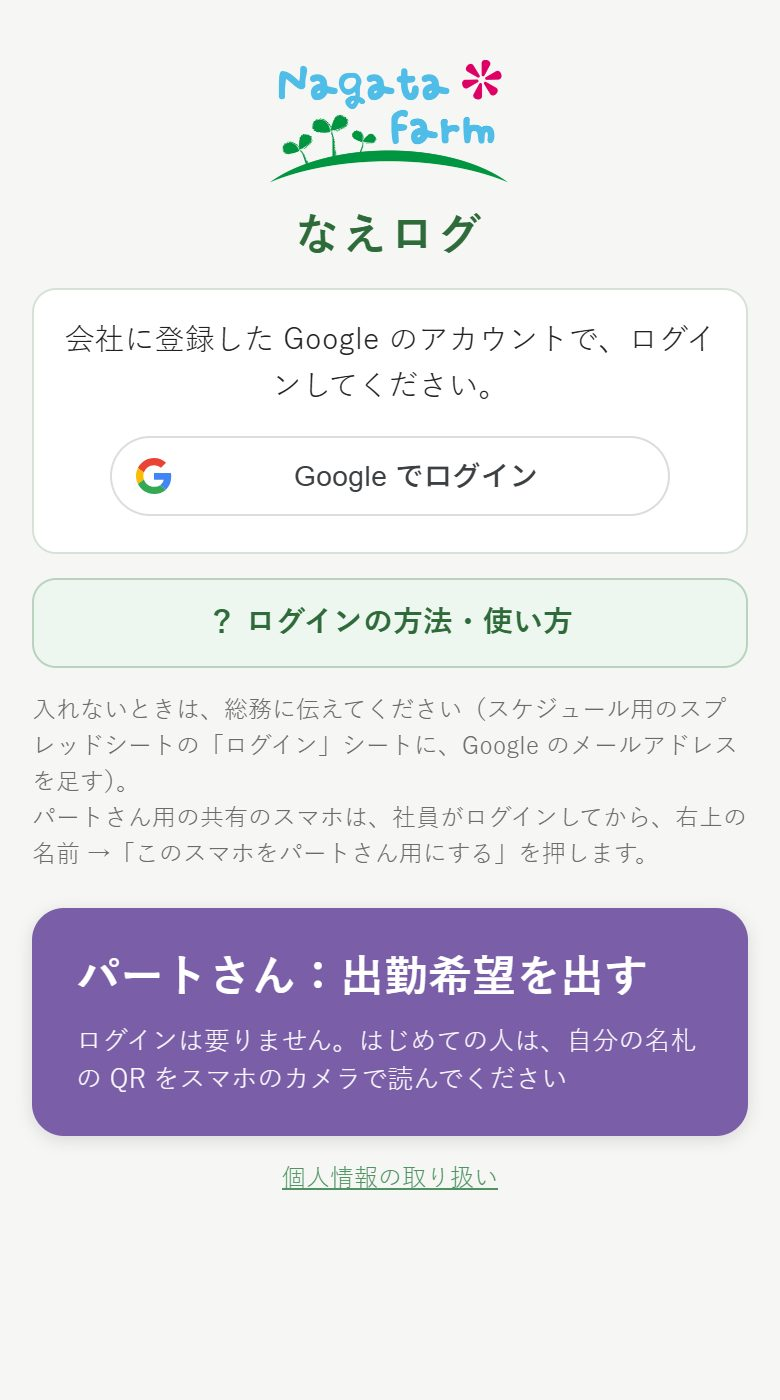
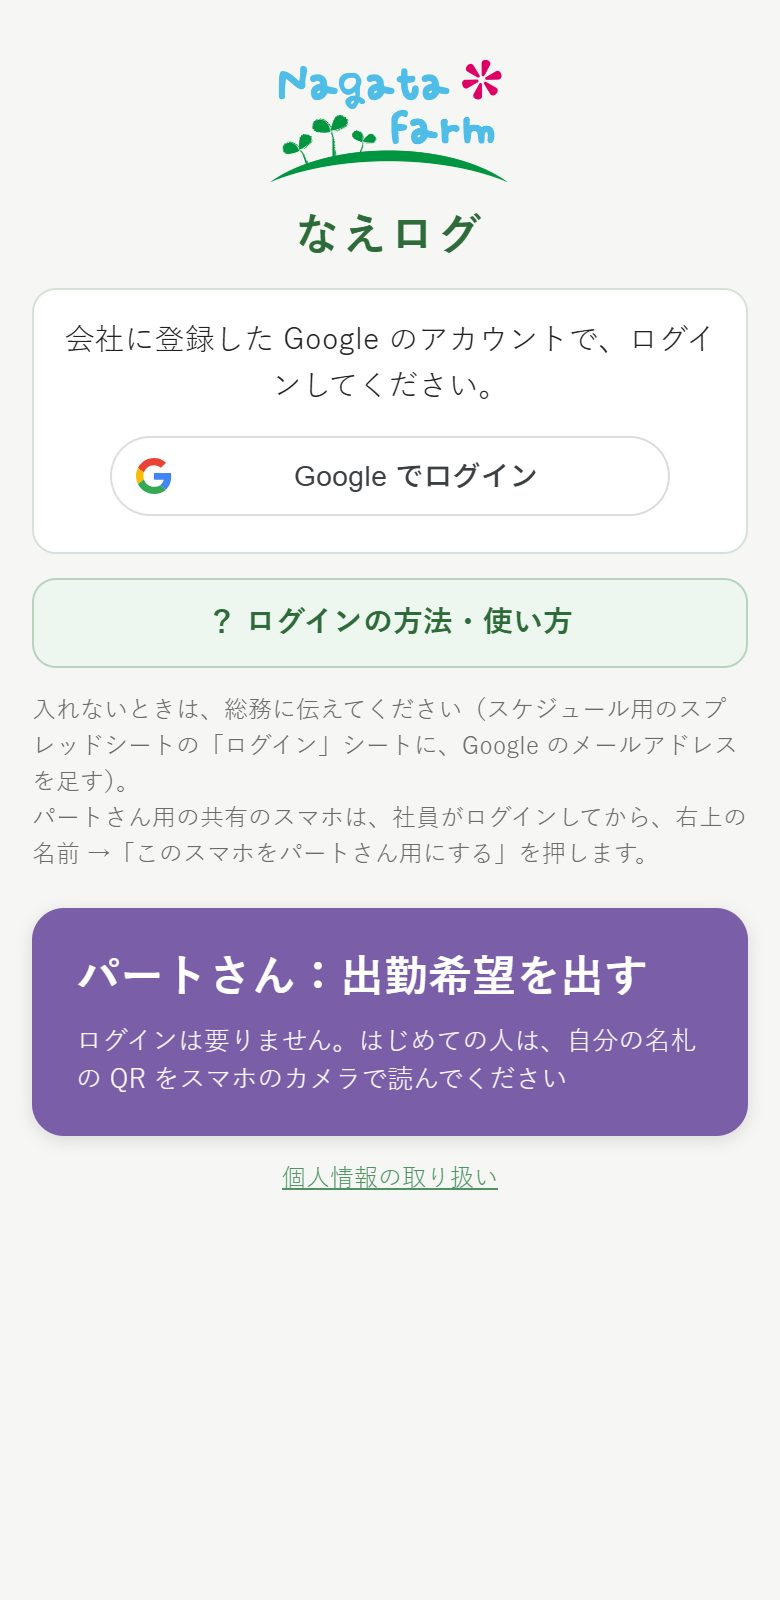
使い方：スマホの枠を今のスマホの形に（縦長・丸い角・上の小判形・横のボタン）。画面の画像も縦長で撮り直し

diff --git a/help.html b/help.html
@@ -16,7 +16,15 @@
   section { background: #fff; border: 1px solid var(--line); border-radius: 16px; padding: 16px; margin: 14px 0; box-shadow: 0 2px 8px rgba(0,0,0,.05); scroll-margin-top: 8px; }
   h2 { font-size: 18px; margin: 0 0 12px; padding-left: 10px; border-left: 5px solid var(--green); }
   .row { display: flex; gap: 18px; align-items: flex-start; }
-  .phone { flex: none; width: 220px; position: relative; border: 6px solid #2b2b2b; border-radius: 26px; overflow: hidden; background: #000; box-shadow: 0 4px 14px rgba(0,0,0,.2); }
+  /* スマホの形：縦長・細い黒ふち・大きな丸い角・上の小判形・横のボタン */
+  .phone { flex: none; width: 230px; position: relative; padding: 7px; border-radius: 40px; background: #121212; box-shadow: 0 0 0 2px #4d3f57, 0 0 0 3px #1c1620, 0 12px 26px rgba(0,0,0,.22); }
+  .phone::before { content: ""; position: absolute; left: -6px; top: 17%; width: 3px; height: 5%; border-radius: 2px 0 0 2px; background: #4d3f57; box-shadow: 0 46px 0 #4d3f57, 0 46px 0 0 #4d3f57, 0 92px 0 #4d3f57; }
+  .phone::after { content: ""; position: absolute; right: -6px; top: 27%; width: 3px; height: 12%; border-radius: 0 2px 2px 0; background: #4d3f57; }
+  .scr { position: relative; border-radius: 33px; overflow: hidden; padding-top: 30px; background: #fff; }
+  .scr.g { background: #4f9363; }
+  .scr.l { background: #f5f5f3; }
+  .scr::before { content: ""; position: absolute; z-index: 3; left: 50%; top: 9px; width: 28%; height: 15px; margin-left: -14%; border-radius: 999px; background: #000; }
+  .shot { position: relative; }
   .phone img { display: block; width: 100%; height: auto; }
   /* 押す所の番号：下の画面が透けて見えるように、うすい色の輪にする（字は小さく、輪の右上に寄せる） */
   .phone .m { position: absolute; width: 34px; height: 34px; margin: -17px 0 0 -17px; border-radius: 50%; background: rgba(212,130,74,.22); border: 2px solid rgba(212,130,74,.85); box-shadow: 0 0 0 2px rgba(255,255,255,.55); }
@@ -39,7 +47,7 @@
   .fab { position: fixed; right: 14px; bottom: 14px; z-index: 50; background: var(--orange); color: #fff; text-decoration: none; font-weight: bold; border-radius: 999px; padding: 12px 20px; box-shadow: 0 4px 14px rgba(0,0,0,.3); font-size: 15px; }
   @media (max-width: 560px) {
     .row { flex-direction: column; align-items: center; }
-    .phone { width: 240px; }
+    .phone { width: 250px; }
     .steps { width: 100%; }
   }
 </style>
@@ -54,7 +62,7 @@
   <section id="login">
     <h2>ログインする</h2>
     <div class="row">
-      <div class="phone"><img src="help/login.jpg" alt="ログインの画面"><span class="m" data-n="1" style="left:50%;top:34.3%">1</span></div>
+      <div class="phone"><div class="scr l"><div class="shot"><img src="help/login.jpg?v=2" alt="ログインの画面"><span class="m" data-n="1" style="left:50%;top:30%">1</span></div></div></div>
       <ol class="steps">
         <li><span class="n">1</span><span><b>Google でログイン</b>を押す</span></li>
         <li><span class="n p">2</span><span>会社に伝えた <b>Google のアカウント</b>を選ぶ</span></li>
@@ -66,7 +74,7 @@
 
   <section id="line" class="line">
     <h2>LINE の下のメニューから開く</h2>
-    <img src="help/linemenu.jpg" alt="LINE の下のメニュー">
+    <img src="help/linemenu.jpg?v=2" alt="LINE の下のメニュー">
     <ol class="steps">
       <li><span class="n p">1</span><span>使いたいボタンを押す。<b>Chrome などのブラウザ</b>で開く</span></li>
       <li><span class="n p">2</span><span>はじめてのときだけ、ログインの画面が出る。ログインすると、押した画面になる</span></li>
@@ -76,7 +84,7 @@
   <section id="move">
     <h2>画面を移る</h2>
     <div class="row">
-      <div class="phone"><img src="help/weed.jpg" alt="上の緑の帯"><span class="m" data-n="1" style="left:50%;top:9.8%">1</span><span class="m" data-n="2" style="left:12.5%;top:15.8%">2</span></div>
+      <div class="phone"><div class="scr g"><div class="shot"><img src="help/weed.jpg?v=2" alt="上の緑の帯"><span class="m" data-n="1" style="left:50%;top:8.5%">1</span><span class="m" data-n="2" style="left:12.5%;top:13.8%">2</span></div></div></div>
       <ol class="steps">
         <li><span class="n">1</span><span>上の緑の帯で、<b>登録・調べる・予定・除草・在庫</b>に移る</span></li>
         <li><span class="n">2</span><span><b>‹ メニュー</b>で、なえログのメニューに戻る</span></li>
@@ -88,7 +96,7 @@
   <section id="weed">
     <h2>除草を記録する</h2>
     <div class="row">
-      <div class="phone"><img src="help/weed.jpg" alt="除草の記録の画面"><span class="m" data-n="1" style="left:16.7%;top:50.3%">1</span><span class="m" data-n="2" style="left:19%;top:80%">2</span><span class="m" data-n="3" style="left:73.6%;top:94.8%">3</span></div>
+      <div class="phone"><div class="scr g"><div class="shot"><img src="help/weed.jpg?v=2" alt="除草の記録の画面"><span class="m" data-n="1" style="left:16.7%;top:44%">1</span><span class="m" data-n="2" style="left:19%;top:70%">2</span><span class="m" data-n="3" style="left:73.6%;top:95.4%">3</span></div></div></div>
       <ol class="steps">
         <li><span class="n">1</span><span><b>場所</b>を押す（いくつでも）</span></li>
         <li><span class="n">2</span><span><b>手段</b>を1つ選ぶ。「必須」の欄が出ていたら、それも選ぶ</span></li>
@@ -102,7 +110,7 @@
   <section id="weedmap">
     <h2>除草マップを見る</h2>
     <div class="row">
-      <div class="phone"><img src="help/weedmap.jpg" alt="除草マップ（見本の絵）"><span class="m" data-n="1" style="left:51.7%;top:15.8%">1</span></div>
+      <div class="phone"><div class="scr g"><div class="shot"><img src="help/weedmap.jpg?v=2" alt="除草マップ（見本の絵）"><span class="m" data-n="1" style="left:51.7%;top:13.8%">1</span></div></div></div>
       <div class="steps">
         <ol class="steps">
           <li><span class="n">1</span><span>除草の画面で <b>マップ</b>を押す</span></li>
@@ -123,7 +131,7 @@
   <section id="stock">
     <h2>在庫を見る</h2>
     <div class="row">
-      <div class="phone"><img src="help/stock.jpg" alt="在庫を見る画面"><span class="m" data-n="1" style="left:51.8%;top:66.5%">1</span><span class="m" data-n="2" style="left:71.5%;top:54.3%">2</span></div>
+      <div class="phone"><div class="scr g"><div class="shot"><img src="help/stock.jpg?v=2" alt="在庫を見る画面"><span class="m" data-n="1" style="left:51.8%;top:58.2%">1</span><span class="m" data-n="2" style="left:71.5%;top:47.5%">2</span></div></div></div>
       <ol class="steps">
         <li><span class="n">1</span><span><b>種類 → 区分</b>の見出しを押すと、品目と残りが出る</span></li>
         <li><span class="n">2</span><span><b>要発注だけ</b>で、発注が要る品目だけにする</span></li>
@@ -136,7 +144,7 @@
   <section id="stockio">
     <h2>入庫・出庫を記録する</h2>
     <div class="row">
-      <div class="phone"><img src="help/stockio.jpg" alt="入庫出庫の画面"><span class="m" data-n="1" style="left:16.9%;top:38.4%">1</span><span class="m" data-n="2" style="left:35.9%;top:56.4%">2</span><span class="m" data-n="4" style="left:26.4%;top:94.8%">4</span></div>
+      <div class="phone"><div class="scr g"><div class="shot"><img src="help/stockio.jpg?v=2" alt="入庫出庫の画面"><span class="m" data-n="1" style="left:16.9%;top:33.6%">1</span><span class="m" data-n="2" style="left:35.9%;top:49.3%">2</span><span class="m" data-n="4" style="left:26.4%;top:95.4%">4</span></div></div></div>
       <ol class="steps">
         <li><span class="n">1</span><span><b>種類</b>を選ぶ</span></li>
         <li><span class="n">2</span><span><b>動き</b>を選ぶ（出庫・入庫・棚卸）</span></li>
